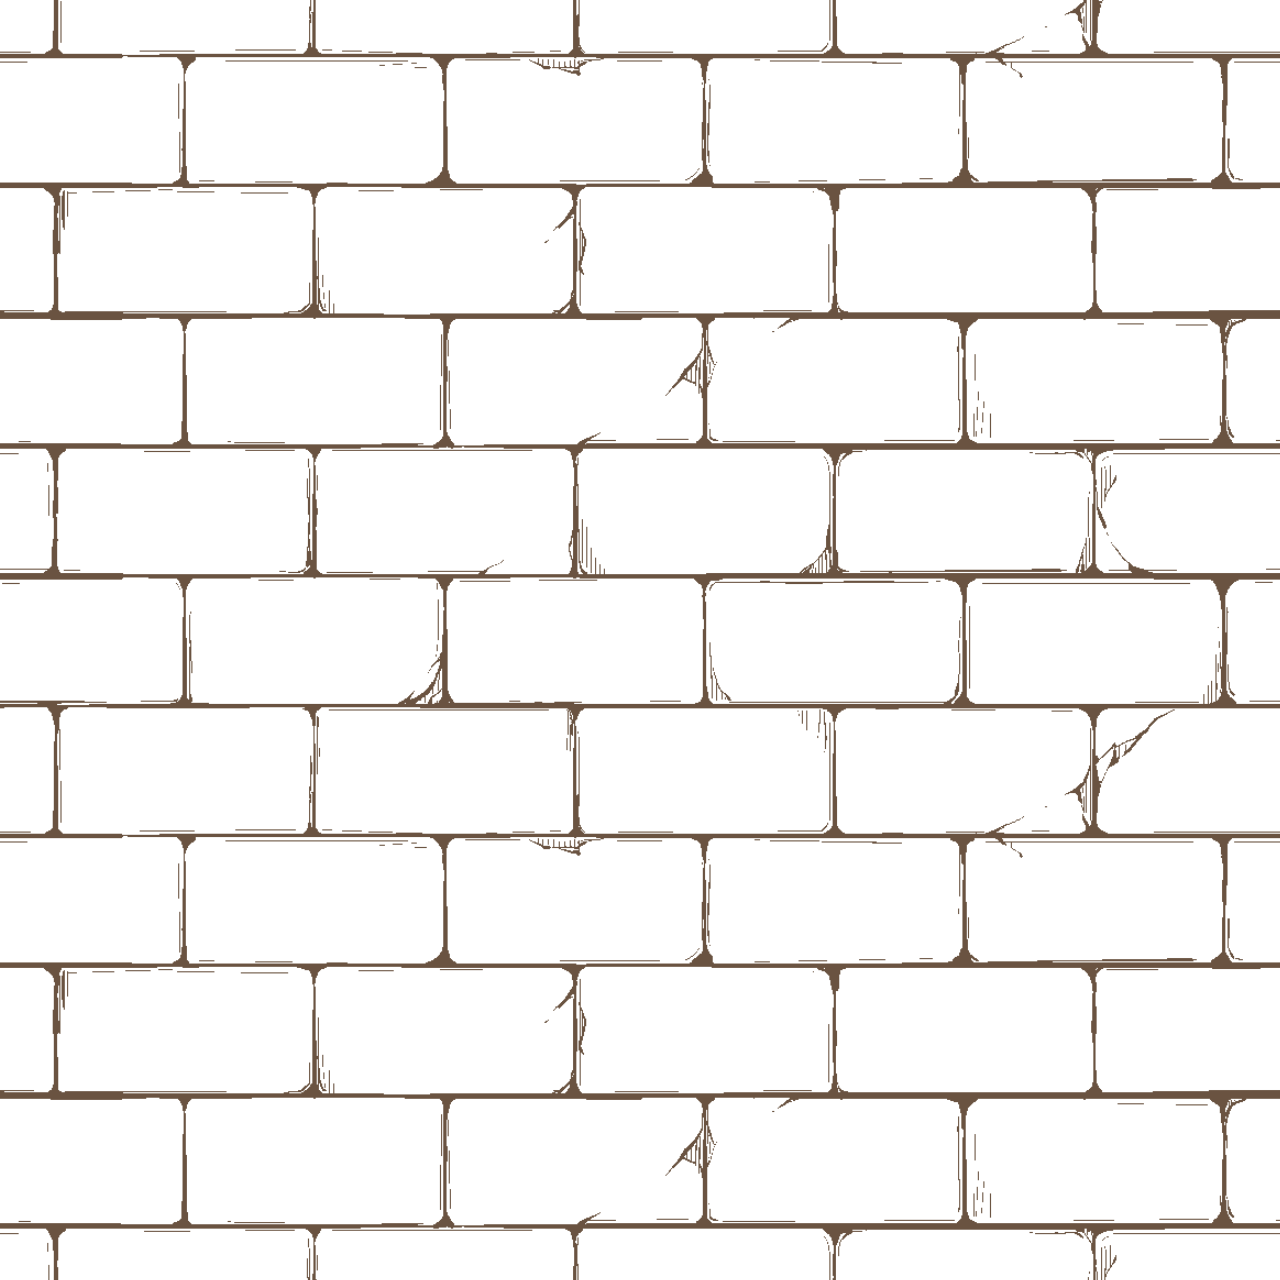
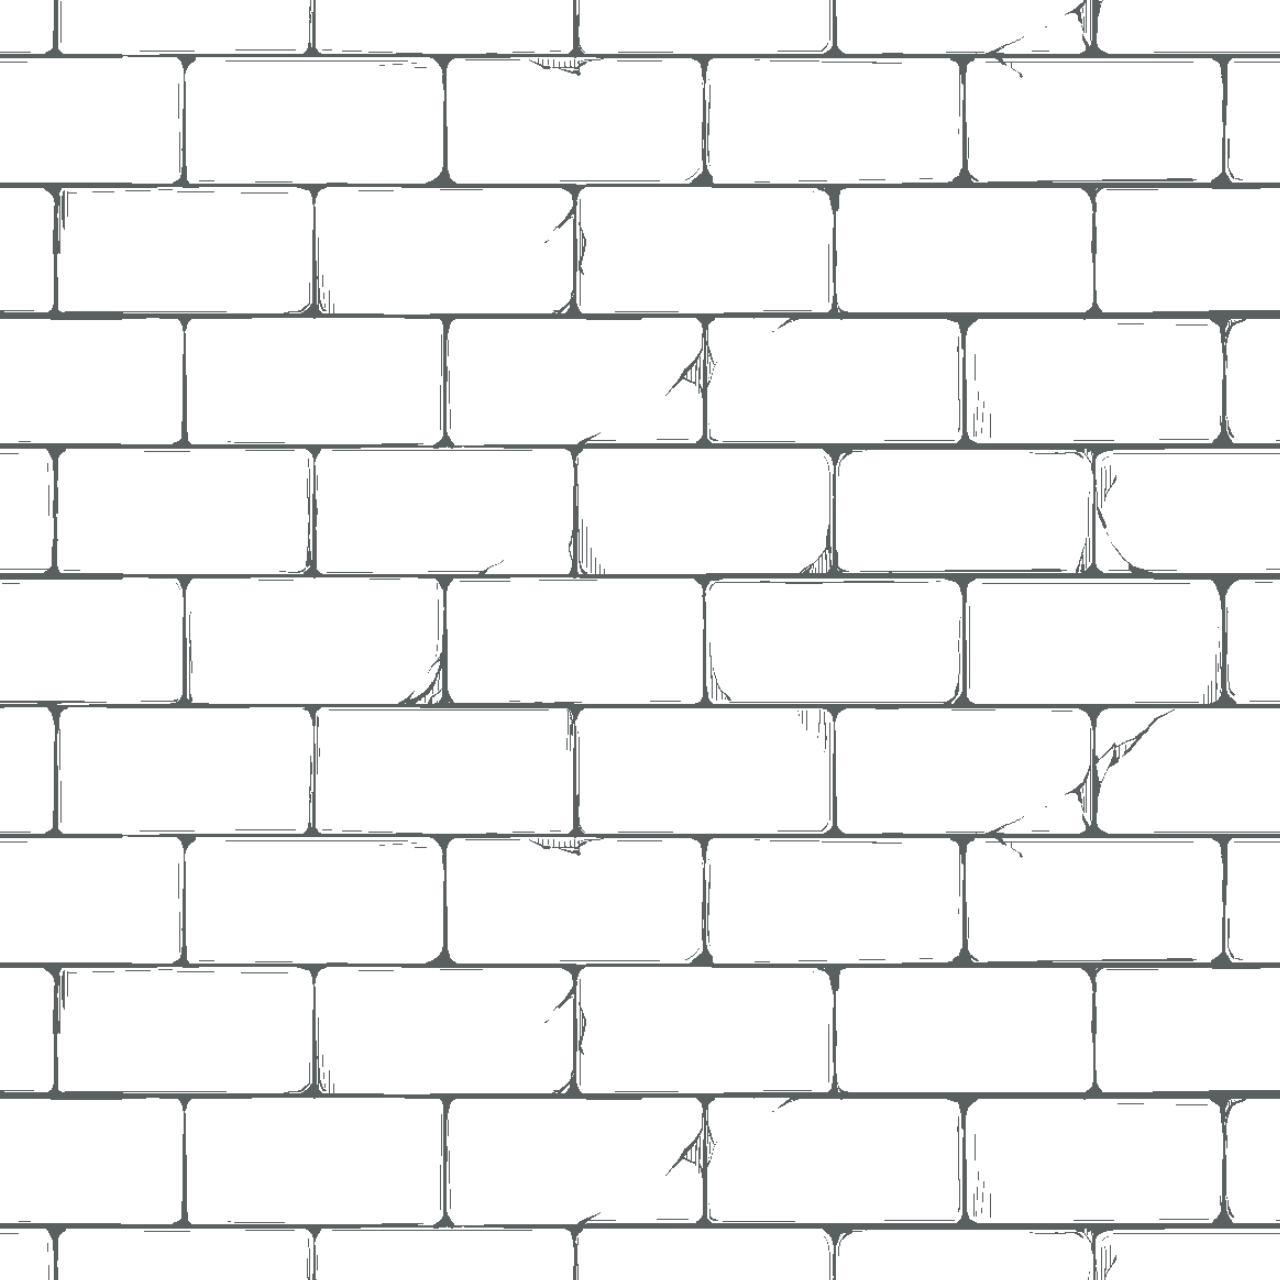
v0.2 List Page | Day 21

diff --git a/ProtoForms/src/styles/global.css b/ProtoForms/src/styles/global.css
@@ -23,8 +23,8 @@
 html.night {
   --color-primary: rgb(255, 255, 255);
   --color-bg-main: rgb(32, 35, 49);
-  --color-backdrop-main: rgba(50, 37, 97);
-  --background-main: url('../assets/bg_temp_0.png');
+  --color-backdrop-main: rgba(91, 94, 111);
+  --background-main: url('../assets/bg_temp_1.png');
 
   --color-bg-secondary: rgb(221, 214, 255);
   --color-accent: rgb(141, 92, 255);
